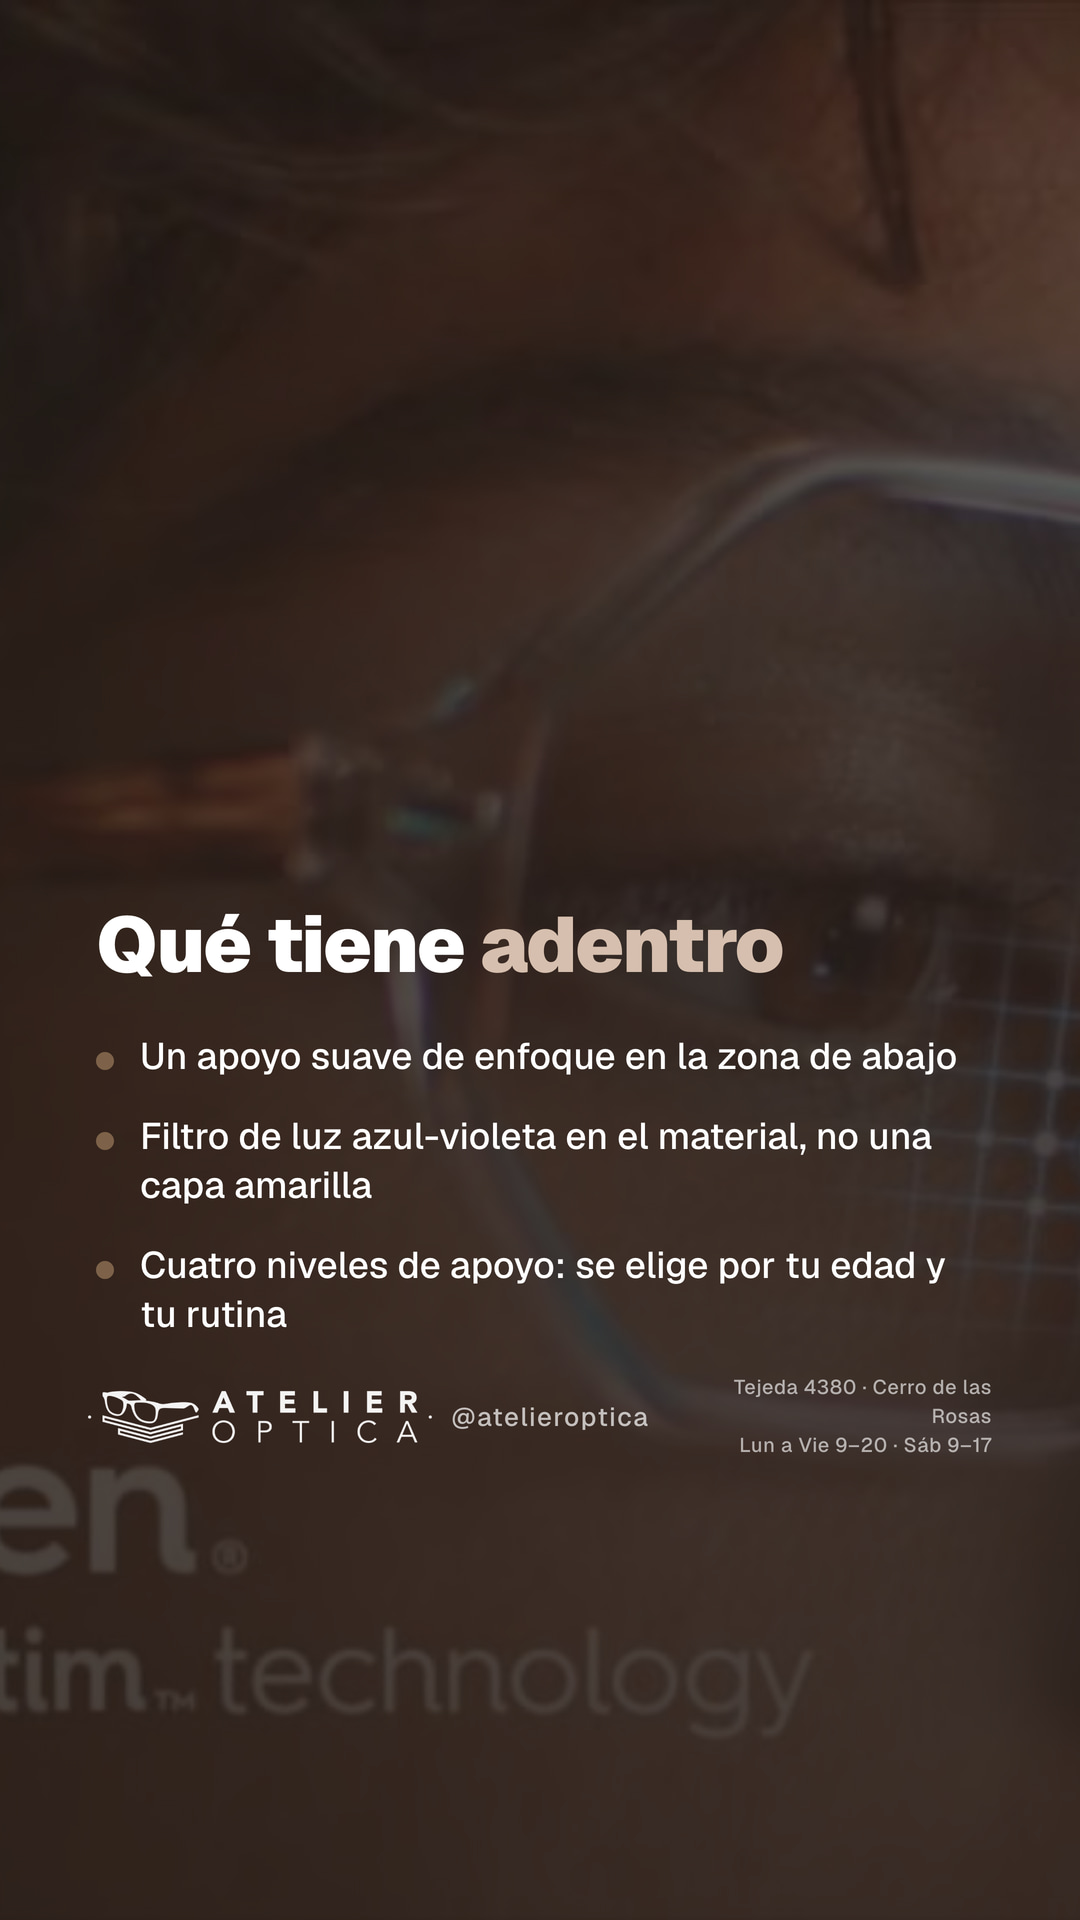
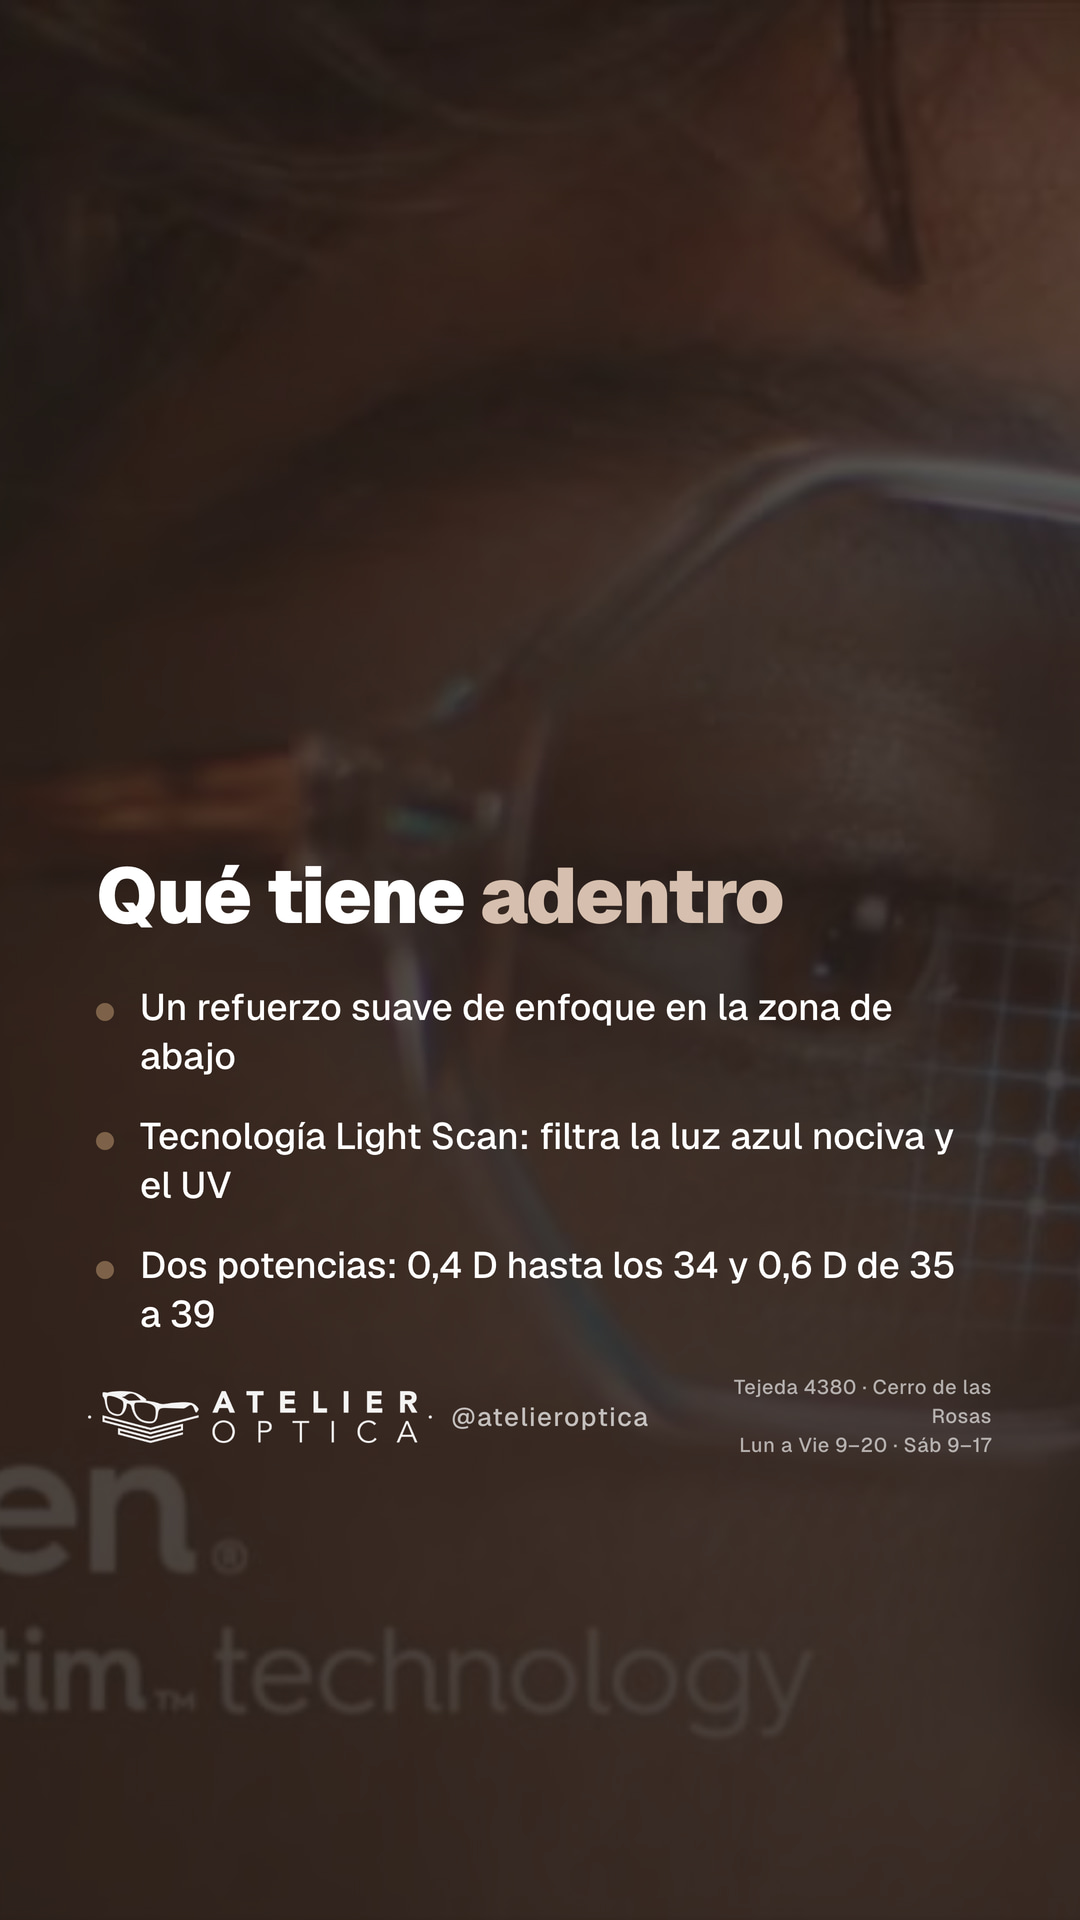
Eyezen: el Boost tiene DOS potencias, no cuatro — y el reel se puede alargar
Los cuatro niveles (0,4 / 0,6 / 0,85 / 1,1) son de la generación anterior.
El catálogo vigente que confirmó Ishtar es: Kids 6-12 (Blue UV, sin
Transitions), Start 12-39 (Blue UV) y Boost 18-39 (Light Scan), y el Boost
viene en 0,4 D de 18 a 34 y 0,6 D de 35 a 39. El dato estaba en nueve
lugares —las dos notas del blog, el excerpt del índice, las FAQ, el artículo
fuente y una placa de la story— y es de los que un cliente le repite al
proveedor, así que se corrigieron todos y no queda ninguno viejo.

De paso caen dos rangos de edad inventados ("18 a 50", "20 a 45"): son 18 a 39.

El reel de lente ahora acepta `duracionMs`. Los tiempos de la animación están
escritos a mano contra 14 s, y reescribir esos veintipico de números por cada
duración nueva es la forma segura de que uno quede mal y nadie lo note: en vez
de eso el reloj se estira y la escena transcurre más despacio. Los otros cinco
reels no cambian ni un frame (K = 1). El de Eyezen pasa a 22 s, con un guion
que explica de dónde sale el alivio y no solo para quién es.

Changed region(s): [[0.0917, 0.4375, 0.8861, 0.625], [0.1222, 0.6562, 0.8861, 0.6875]]

diff --git a/src/app/blog/[slug]/page.tsx b/src/app/blog/[slug]/page.tsx
@@ -114,15 +114,15 @@ const posts: Record<string, Post> = {
   'lentes-eyezen-boost-cordoba': {
     slug: 'lentes-eyezen-boost-cordoba',
     title: 'Eyezen Boost: el monofocal de Essilor con ayuda de enfoque para la generación de las pantallas',
-    excerpt: 'No es un lente de descanso genérico: Eyezen Boost trae un refuerzo de potencia calibrado por edad (de 0,4 a 1,1 dioptrías) en la zona de lectura. Te contamos cómo funciona y para quién es.',
+    excerpt: 'No es un lente de descanso genérico: Eyezen Boost trae un refuerzo de potencia calibrado por edad (0,4 D de 18 a 34 años, 0,6 D de 35 a 39) en la zona de lectura. Te contamos cómo funciona y para quién es.',
     metaTitle: 'Lentes Eyezen Boost de Essilor en Córdoba | Atelier Óptica',
-    metaDescription: 'Fatiga visual por pantallas entre los 18 y 50 años. Conocé Eyezen Boost de Essilor: 4 niveles de refuerzo de enfoque según tu edad, con filtro de luz azul incorporado. Atelier Óptica Córdoba.',
+    metaDescription: 'Fatiga visual por pantallas entre los 18 y 39 años. Conocé Eyezen Boost de Essilor: refuerzo de enfoque de 0,4 D o 0,6 D según tu edad, con tecnología Light Scan contra la luz azul nociva. Atelier Óptica Córdoba.',
     date: '2026-08-19',
     category: 'Tecnología Essilor',
     imageUrl: '/images/blog/muestrario-smart-lens.webp',
     content: (
       <>
-        <p className="lead">Si tenés entre 18 y 50 años y terminás el día con los ojos cansados, ardor o dolor de cabeza después de horas de celular y computadora, esta nota es para vos. <strong>Eyezen Boost</strong> es la línea de monofocales de Essilor pensada exactamente para ese problema — y a diferencia de un &quot;lente de descanso&quot; genérico, acá el refuerzo se elige a medida.</p>
+        <p className="lead">Si tenés entre 18 y 39 años y terminás el día con los ojos cansados, ardor o dolor de cabeza después de horas de celular y computadora, esta nota es para vos. <strong>Eyezen Boost</strong> es la línea de monofocales de Essilor pensada exactamente para ese problema — y a diferencia de un &quot;lente de descanso&quot; genérico, acá el refuerzo se elige a medida.</p>
 
         <h2>El síntoma que casi nadie relaciona con la vista</h2>
         <p>La consulta llega siempre parecida: <em>&quot;de lejos veo perfecto, pero a la tarde no doy más&quot;</em>. Y como la visión de lejos está intacta, la persona descarta que sea un tema visual y lo atribuye al estrés o al cansancio general. La <strong>fatiga visual digital</strong> se manifiesta así:</p>
@@ -142,22 +142,20 @@ const posts: Record<string, Post> = {
         <h2>¿Qué es exactamente el &quot;Boost&quot;?</h2>
         <p>Eyezen Boost es un lente de visión sencilla que incorpora la tecnología <strong>Eyezen Focus</strong>: un leve refuerzo de potencia ubicado en la parte inferior del cristal, justo en la zona por donde mirás cuando leés el celular o la pantalla. Ese refuerzo acompaña el esfuerzo de acomodación del ojo: el músculo ciliar trabaja menos, y eso se traduce en menos fatiga al final del día y una postura más natural frente a los dispositivos.</p>
 
-        <h2>Cuatro niveles, según tu edad visual</h2>
-        <p>Acá está la diferencia con cualquier lente de descanso estándar. El refuerzo de Eyezen Boost viene en <strong>cuatro niveles de potencia adicional</strong>, porque el esfuerzo de enfoque que hace tu ojo a los 22 no es el mismo que a los 45:</p>
+        <h2>Dos potencias, según tu edad</h2>
+        <p>Acá está la diferencia con cualquier lente de descanso estándar. El refuerzo de Eyezen Boost viene en <strong>dos potencias</strong>, porque el esfuerzo de enfoque que hace tu ojo a los 22 no es el mismo que a los 38:</p>
         <ul>
-          <li><strong>Boost 0,4</strong> — para las edades más jóvenes del rango, que ya sienten fatiga digital.</li>
-          <li><strong>Boost 0,6</strong> — cuando el esfuerzo de cerca empieza a notarse más.</li>
-          <li><strong>Boost 0,85</strong> — para quienes se acercan a la presbicia.</li>
-          <li><strong>Boost 1,1</strong> — el refuerzo máximo, en la puerta de los multifocales.</li>
+          <li><strong>Boost 0,4 D</strong> — de 18 a 34 años.</li>
+          <li><strong>Boost 0,6 D</strong> — de 35 a 39 años, cuando el esfuerzo de cerca empieza a pesar más.</li>
         </ul>
-        <p>La elección del nivel no es adivinanza: se define con tu edad, tu receta y tus hábitos de pantalla. Ese es nuestro trabajo en el mostrador.</p>
+        <p>La edad orienta, pero no decide sola: también entran tu receta, cuántas horas de pantalla hacés y a qué distancia trabajás — todo sobre el cuadro clínico que verificó tu profesional de la visión. Ese es nuestro trabajo en el mostrador.</p>
 
         <h2>Toda la familia Eyezen, no solo el Boost</h2>
         <p>Eyezen no es un lente único sino una gama, y elegir mal dentro de la gama es tan problemático como no usarla. Estas son las variantes que trabajamos:</p>
         <ul>
-          <li><strong>Eyezen Kids / Teens</strong> — pensados para chicos y adolescentes, adaptados a la distancia real a la que ellos sostienen el celular y la tablet (bastante más corta que la de un adulto). Protegen durante los años de mayor desarrollo visual y escolar.</li>
-          <li><strong>Eyezen Start</strong> — para usuarios jóvenes con síntomas leves. Trae un diseño asférico digital que mejora el contraste y la nitidez en la periferia del cristal, sin un refuerzo de lectura pronunciado.</li>
-          <li><strong>Eyezen Boost</strong> — la versión con el refuerzo calibrado en cuatro niveles, para quien ya tiene fatiga instalada: dolor de cabeza, ardor, agotamiento al terminar el día.</li>
+          <li><strong>Eyezen Kids</strong> (6 a 12 años) — pensado para chicos, adaptado a la distancia real a la que ellos sostienen el celular y la tablet, bastante más corta que la de un adulto. Trae tecnología Blue UV y se puede combinar con Crizal, pero <strong>no</strong> con fotocromático Transitions.</li>
+          <li><strong>Eyezen Start</strong> (12 a 39 años) — para quien tiene síntomas leves. Diseño asférico digital que mejora el contraste y la nitidez en la periferia del cristal, sin un refuerzo de lectura pronunciado. Con Blue UV, y admite Crizal y Transitions.</li>
+          <li><strong>Eyezen Boost</strong> (18 a 39 años) — la versión con el refuerzo de potencia, para quien ya tiene fatiga instalada: dolor de cabeza, ardor, agotamiento al terminar el día. Trae tecnología <strong>Light Scan</strong> y admite Transitions.</li>
         </ul>
 
         <h2>Eyezen no es un bifocal ni un multifocal</h2>
@@ -177,7 +175,7 @@ const posts: Record<string, Post> = {
         <p>Vale la pena subrayarlo porque es lo que más sorprende: <strong>podés usar Eyezen aunque tu vista sea perfecta</strong>. En versión neutra funciona como un anteojo puramente preventivo — el apoyo de enfoque y el filtro, sin corrección. Es la opción para quien trabaja con pantallas todo el día, nunca necesitó anteojos, y sin embargo termina la jornada con los ojos agotados.</p>
 
         <h2>¿Me voy a marear? ¿Cuánto tarda la adaptación?</h2>
-        <p>La adaptación es prácticamente inmediata. El refuerzo de Eyezen es tan suave —entre 0,4 y 1,1 dioptrías, y repartido de forma gradual— que no produce el &quot;efecto balanceo&quot; que algunas personas sienten los primeros días con un progresivo. La mayoría se los pone y sigue trabajando.</p>
+        <p>La adaptación es prácticamente inmediata. El refuerzo de Eyezen es tan suave —0,4 o 0,6 dioptrías, y repartido de forma gradual— que no produce el &quot;efecto balanceo&quot; que algunas personas sienten los primeros días con un progresivo. La mayoría se los pone y sigue trabajando.</p>
         <p>Lo que sí hace falta es que <strong>estén bien centrados</strong>. El refuerzo tiene que caer exactamente donde vos bajás los ojos, y eso depende de tu altura pupilar, del armazón que elijas y de cómo lo apoyás en la cara. Un Eyezen mal medido pierde buena parte de su gracia: por eso la medición no es un trámite.</p>
 
         <h2>¿Es para vos?</h2>
@@ -362,7 +360,7 @@ const posts: Record<string, Post> = {
     imageUrl: '/images/blog/muestrario-smart-lens.webp',
     content: (
       <>
-        <p className="lead"><strong>¡Atención Córdoba!</strong> Si tenés entre 20 y 45 años, es muy probable que pases más de 8 horas al día mirando la pantalla del celular, la notebook o el televisor. Todo este esfuerzo de enfoque cercano genera fatiga visual, ojos secos y dolor de cabeza. Muchos buscan "lentes de descanso", pero <strong>Essilor Eyezen</strong> redefine por completo este concepto.</p>
+        <p className="lead"><strong>¡Atención Córdoba!</strong> Si tenés entre 18 y 39 años, es muy probable que pases más de 8 horas al día mirando la pantalla del celular, la notebook o el televisor. Todo este esfuerzo de enfoque cercano genera fatiga visual, ojos secos y dolor de cabeza. Muchos buscan "lentes de descanso", pero <strong>Essilor Eyezen</strong> redefine por completo este concepto.</p>
 
         <h2>¿Qué pasa en tu ojo cuando mirás el celular?</h2>
         <p>Tus ojos no fueron diseñados por la naturaleza para mirar un objeto luminoso a 30 centímetros de distancia durante horas. Para mantener la imagen nítida de cerca, un músculo dentro de tu ojo (el músculo ciliar) se contrae. Cuando este músculo permanece contraído todo el día, se produce lo que llamamos <strong>estrés o fatiga visual</strong>.</p>
@@ -377,7 +375,7 @@ const posts: Record<string, Post> = {
 
         <h2>Disponibles con y sin graduación</h2>
         <p>Podés hacer tus lentes Eyezen incluso si no tenés miopía ni astigmatismo. Si ya usás lentes recetados para ver de lejos, Eyezen reemplaza tu cristal monofocal tradicional brindándote esta tecnología extra para el mundo digital.</p>
-        <p>Visitá <strong>Atelier Óptica</strong> en Cerro de las Rosas y enterate de cuál de las variantes de Eyezen (Start, o Boost con sus 4 niveles de refuerzo: 0,4 / 0,6 / 0,85 / 1,1) es la ideal para tu estilo de vida.</p>
+        <p>Visitá <strong>Atelier Óptica</strong> en Cerro de las Rosas y enterate de cuál de las variantes de Eyezen (Kids, Start, o Boost con su refuerzo de 0,4 D o 0,6 D según tu edad) es la ideal para tu estilo de vida.</p>
       <p className="mt-4 font-bold text-[#111]">📍 Encontrá la mejor atención en José Luis de Tejeda 4380, Cerro de las Rosas, Córdoba. ¡Te esperamos en Atelier Óptica!</p>
       </>
     )

diff --git a/src/lib/static-blog-posts.ts b/src/lib/static-blog-posts.ts
@@ -27,7 +27,7 @@ export const staticPosts: StaticBlogPost[] = [
   {
     slug: 'lentes-eyezen-boost-cordoba',
     title: 'Eyezen Boost: el monofocal de Essilor con ayuda de enfoque para la generación de las pantallas',
-    excerpt: 'No es un lente de descanso genérico: Eyezen Boost trae un refuerzo de potencia calibrado por edad (de 0,4 a 1,1 dioptrías) en la zona de lectura. Cómo funciona y para quién es.',
+    excerpt: 'No es un lente de descanso genérico: Eyezen Boost trae un refuerzo de potencia calibrado por edad (0,4 D de 18 a 34 años, 0,6 D de 35 a 39) en la zona de lectura. Cómo funciona y para quién es.',
     date: '2026-08-19',
     category: 'Tecnología Essilor',
     imageUrl: '/images/blog/muestrario-smart-lens.webp'

diff --git a/scripts/contenidos-essilor/3-eyezen-pantallas.md b/scripts/contenidos-essilor/3-eyezen-pantallas.md
@@ -27,15 +27,15 @@ Los cristales Eyezen incorporan dos tecnologías clave que cambian por completo 
 ### 1. Eyezen Focus (Relajación muscular activa)
 Esta es la verdadera magia del lente. En la zona inferior del cristal (exactamente donde bajás los ojos para mirar el celular, la tablet o el teclado), Eyezen incorpora un ligero incremento de graduación (conocido como *boost*). Este sutil empujón óptico reduce significativamente el esfuerzo del cristalino (el músculo del ojo), permitiendo que tu sistema visual se relaje, incluso después de una extensa jornada frente al monitor.
 
-Dependiendo de tu edad y exigencia visual (desde los 10 hasta los 45 años), en nuestra óptica en Córdoba determinamos clínicamente qué nivel de *boost* necesitás: Start, Kids, o Boost (0.4, 0.6, 0.85 o 1.1).
+Dependiendo de tu edad y exigencia visual, en nuestra óptica en Córdoba determinamos clínicamente qué variante te corresponde: Kids (6 a 12 años), Start (12 a 39) o Boost (18 a 39, con refuerzo de 0.4 D hasta los 34 y de 0.6 D de 35 a 39).
 
 ### 2. Filtro de Luz Azul Integrado (Blue UV Capture o Crizal Prevencia)
 Eyezen no sería el lente definitivo para pantallas si no contara con protección avanzada contra la luz azul-violeta. Esta tecnología bloquea selectivamente la radiación nociva emitida por los dispositivos LED, la cual altera tus ciclos de sueño, al mismo tiempo que protege tu retina a largo plazo.
 
 ## Eyezen Start vs. Eyezen Boost: ¿Cuál es el cristal ideal para vos?
 
-*   **Eyezen Kids / Teens:** Adaptado de manera ergonómica a cómo los niños y adolescentes sostienen las pantallas. Protege sus ojos durante el pleno desarrollo escolar.
-*   **Eyezen Start:** Diseñado para usuarios de entre 18 y 40 años con síntomas leves de fatiga. Posee un diseño asférico digital que optimiza el contraste y la nitidez periférica, sin el *boost* de lectura intenso.
+*   **Eyezen Kids:** De 6 a 12 años, adaptado de manera ergonómica a cómo los niños sostienen las pantallas. Protege sus ojos durante el pleno desarrollo escolar. Admite Crizal, pero no fotocromático Transitions.
+*   **Eyezen Start:** Diseñado para usuarios de entre 12 y 39 años con síntomas leves de fatiga. Posee un diseño asférico digital que optimiza el contraste y la nitidez periférica, sin el *boost* de lectura intenso.
 *   **Eyezen Boost:** Pensado para quienes experimentan dolores de cabeza fuertes, ardor y fatiga visual severa al terminar la jornada. Es el aliado perfecto para programadores, diseñadores y administrativos que buscan los mejores anteojos en Córdoba, Argentina.
 
 **Dato de Color:** Podés hacerte unos lentes Eyezen **incluso si no tenés graduación (neutros)**. Funciona como un escudo puramente preventivo y relajante para que tu vista no se agote.
@@ -59,7 +59,7 @@ Como **Centro Essilor Expert**, en **Atelier Óptica** (ubicados en el exclusivo
 ## FAQ: Preguntas Frecuentes sobre lentes Eyezen
 
 **¿Eyezen es un lente multifocal?**
-No. Eyezen es un lente monofocal (visión sencilla) sumamente avanzado. No está diseñado para tratar la presbicia (condición de personas mayores de 40 años que no pueden enfocar de cerca). Es un cristal preventivo enfocado en niños, adolescentes y adultos jóvenes.
+No. Eyezen es un lente monofocal (visión sencilla) sumamente avanzado. No está diseñado para tratar la presbicia (condición de personas mayores de 40 años que no pueden enfocar de cerca). Es un cristal preventivo enfocado en niños, adolescentes y adultos de hasta 39 años.
 
 **¿El cristal es amarillo u oscuro?**
 Falso. Gracias a las tecnologías actuales de Essilor que empleamos en Atelier Óptica, el lente Eyezen es prácticamente transparente. Es ideal para el uso diario continuo sin comprometer en absoluto tu estética personal.
@@ -114,7 +114,7 @@ La adaptación es inmediata y 100% natural. A diferencia de lo que ocurre a vece
           "name": "¿Eyezen es un lente multifocal?",
           "acceptedAnswer": {
             "@type": "Answer",
-            "text": "No. Eyezen es un lente monofocal avanzado (visión sencilla) con un diseño que relaja el enfoque de cerca, pensado para personas menores de 45 años que sufren de fatiga visual digital."
+            "text": "No. Eyezen es un lente monofocal avanzado (visión sencilla) con un diseño que relaja el enfoque de cerca, pensado para personas de hasta 39 años que sufren de fatiga visual digital."
           }
         },
         {
